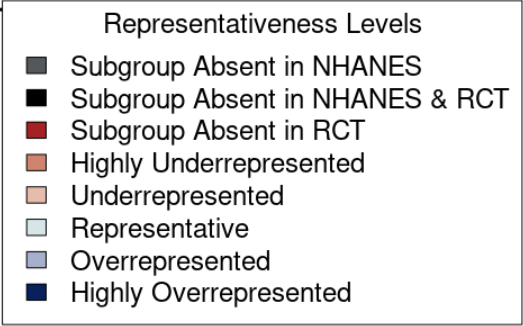
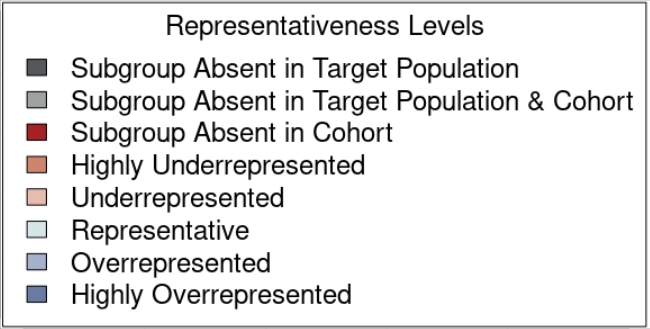
version818

Changed region(s): [[0.0, 0.0, 1.0, 1.0]]

diff --git a/README.md b/README.md
@@ -19,20 +19,20 @@ Quantify representativeness in randomized clinical trials and provide insights t
 
 <!-- ABOUT THE PROJECT -->
 ## Description
-We develop randomized clinical trial (RCT) representativeness metrics based on Machine Learning (ML) Fairness Research. Visualizations and statistical tests based on proposed metrics enable researchers and physicians to rapidly visualize and assess subgroup representation in RCTs. The approach enables users to determine overrepresentation, underrepresentation, and exclusion of subgroups indicating potential limitations of RCTs. The method could help support generalizability evaluation of existing RCT cohorts, enrollment target decisions for new RCTs, and monitoring of RCT recruitment, ultimately contributing to more equitable public health outcomes.
+We develop randomized clinical trial (RCT) representativeness metrics based on Machine Learning (ML) Fairness Research. Visualizations and statistical tests based on proposed metrics enable researchers and physicians to rapidly visualize and assess subgroup representation in RCTs. The approach enables users to determine underrepresentation, absence, or other misrepresentation of subgroups indicating potential limitations of RCTs. The method could help support generalizability evaluation of existing RCT cohorts, enrollment target decisions for new RCTs (if eligibility criteria are included), and monitoring of RCT recruitment, ultimately contributing to more equitable public health outcomes.
 
 ### What's the problem?
-Within the field of RCT research, there has been ongoing concern that RCTs which lack a diversity of participants may not provide clear evidence of efficacy and safety for new interventions in underrepresented or missing subpopulations. To date, there has been insufficient means to quantify the inequity between those who get enrolled into RCTs and the broader population who could benefit from the new intervention.
+Within the field of RCT research, there has been ongoing concern that RCTs which lack a diversity of participants may not provide clear evidence of efficacy and safety for new interventions in underrepresented or missing subpopulations. Standardized methods are needed to assess potential representation disparities between RCT cohorts and the broader populations who could benefit from novel interventions.
 
 
 ### How can technology help?
 Extensive research in ML Fairness has created metrics for quantifying inequities in trained ML classification models and for creating novel ML approaches to address these inequities.
 
-Our novel insight is that assignment of a subject to a RCT can be regarded as a classification function that is random. Applying ML Fairness metrics to this classification problem creates novel representativeness metrics for RCTs and other clinical studies. The representativeness metrics capture how well the actual assignment of subjects to a RCT matches of a hypothetical random assignment.
+Our novel insight is that sampling of a subject to an RCT can be regarded as a classification function that is random. Applying ML Fairness metrics to this classification problem creates novel representativeness metrics for RCTs and other clinical studies. The representativeness metrics capture how well the actual sampling of subjects to a RCT matches of a hypothetical random sampling.
 
 
 ### The solution
-We compare the observed rate in the RCT for the subgroup to the hypothetical ideal rate in an equitable RCT in which participants are assigned truly randomly to the clinical trial.  By considering assignment to the clinical trial as a random classification function, we develop standardized metrics based on variations of ML fairness metrics, focusing here on "Disparate Impact." The resulting metrics are functions of disease-specific observed and ideal rates of assignment of protected subgroups to the RCT. 
+We compare the observed rate in the RCT for the subgroup to the hypothetical ideal rate in an equitable RCT in which participants are assigned truly randomly to the clinical trial.  By considering assignment to the clinical trial as a random classification function, we develop standardized metrics based on variations of ML fairness metrics, focusing here on "Log Disaparity." The resulting metrics are functions of disease-specific observed and ideal rates of sampling of protected subgroups to the RCT. 
 
 ## Visualization Tool
 
@@ -74,10 +74,20 @@ It demonstrates the distributions of participants from different age and race/et
 <em>Color representation of representativeness levels</em>
 </p>
 
-In our visualization, grey indicates that no people with selected protected attributes exist in NHANES; black means that the subgroup is missing in both NHANES and RCT; dark red represents the absent subgroup from the RCT; light orange and dark orange point out that some subgroups are not sufficiently represented and may be at risk of being insufficiently recruited into and represented in the clinical trial cohort; on the other hand, dark blue and light blue identify the potential advantaged subgroups which may make inefficient treatment seem helpful or vice versa; teal shows that the subgroup is equitably represented in the clinical trial. 
+In our visualization, dark gray indicates that no people with selected protected attributes exist in the target population; light gray means that the subgroup is missing from both target population and study cohort; dark red represents the absent subgroup from the cohort; light orange and orange point out that some subgroups are not sufficiently represented and may be at risk of being insufficiently recruited into and represented in the clinical trial cohort; on the other hand, light blue and blue identify the potential advantaged subgroups which may make inefficient treatment seem helpful or vice versa; teal shows that the subgroup is equitably represented in the clinical trial. 
 
 <p align="center">
-  <img width="50%" height="auto" src="Visualizations/interactive_1.jpg">
+  <img width="50%" height="auto" src="Visualizations/color_equity.JPG">
+</p>
+<p align="center">
+<em>Color representation with corresponding metric values</em>
+</p>
+
+The categorized metric values for different representativeness levels with corresponding color in the visualization is shown above. 
+
+
+<p align="center">
+  <img width="50%" height="auto" src="Visualizations/interactive_1.png">
 </p>
 <p align="center">
 <em>The Log Disparity representativeness levels of subgroups defined over race/ethnicity, gender, age, and education and the corresponding function of observed rate for female subjects from other races with some college/technical school education and age over 64 in ACCORD, with significance level = 0.05,lower metric threshold = 0.2, and upper metric threshold = 0.4.</em>
@@ -86,7 +96,7 @@ In our visualization, grey indicates that no people with selected protected attr
 This figure presents the representativeness levels of ACCORD subgroups defined by race/ethnicity, gender, age, and education from the inner ring to the outer ring using the Log Disparity metric. By hovering the pointer over the target subgroup areas on the sunburst, the representativeness label, ideal rate, and observed rate of the subgroups will show on the screen. Additionally, the corresponding math function of observed rates will also show on the side. The green line indicates the ideal rate and the brown line indicates the current RCT observed rate on the figure.
 
 <p align="center">
-  <img width="50%" height="auto" src="Visualizations/interactive_2.jpg">
+  <img width="50%" height="auto" src="Visualizations/interactive_2.png">
 </p>
 <p align="center">
 <em>The Normalized Parity representativeness levels of subgroups defined over race/ethnicity, gender, age, and education and the corresponding function of observed rate for female subjects from other races with some college/technical school education and age over 64 in ACCORD, with significance level = 0.05,lower metric threshold = 0.1, and upper metric threshold = 0.2.</em>
